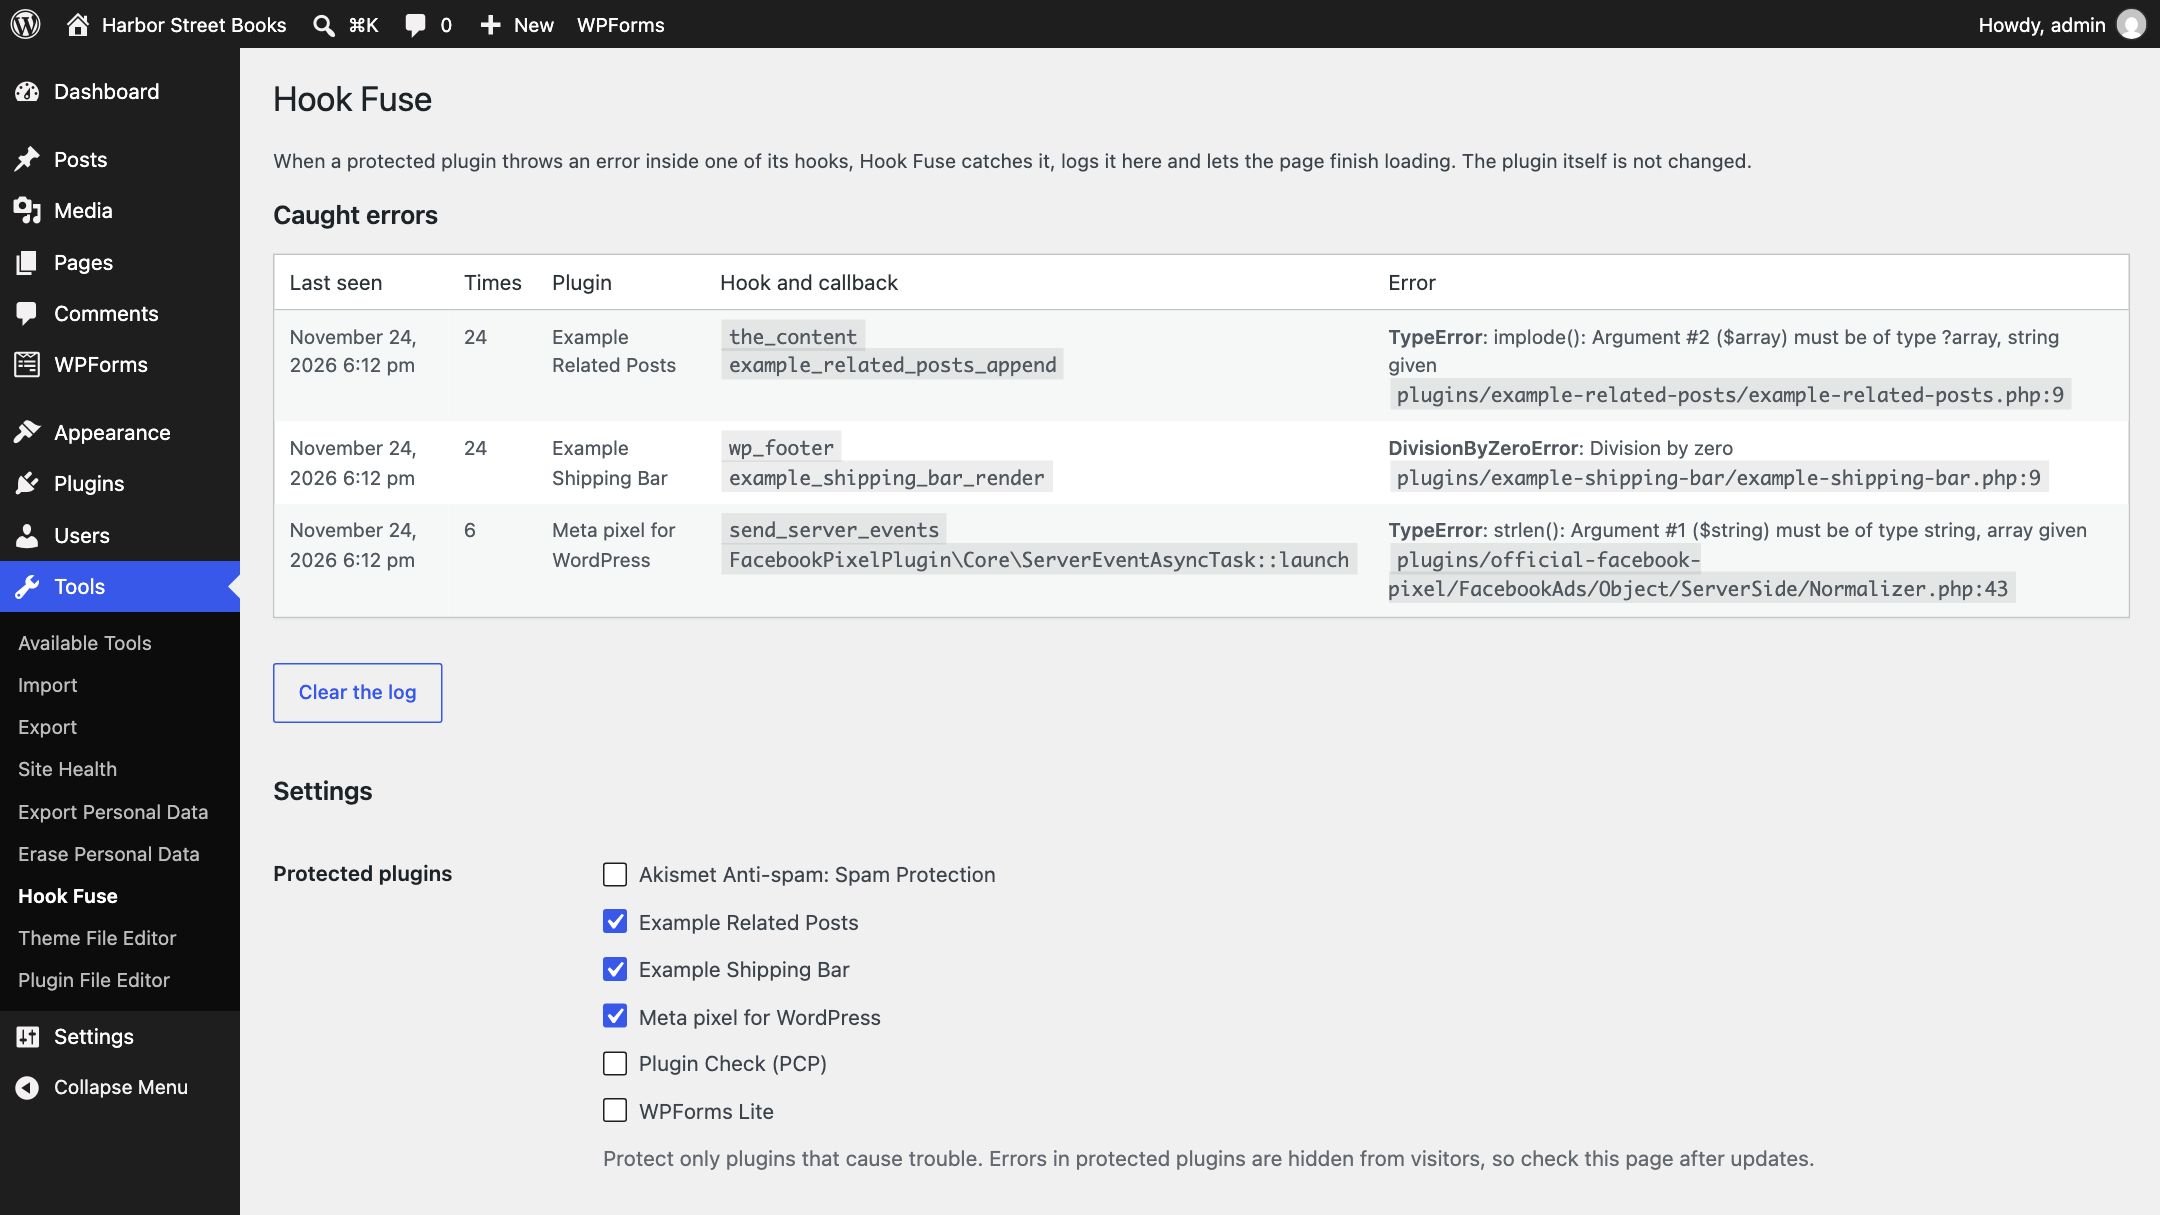
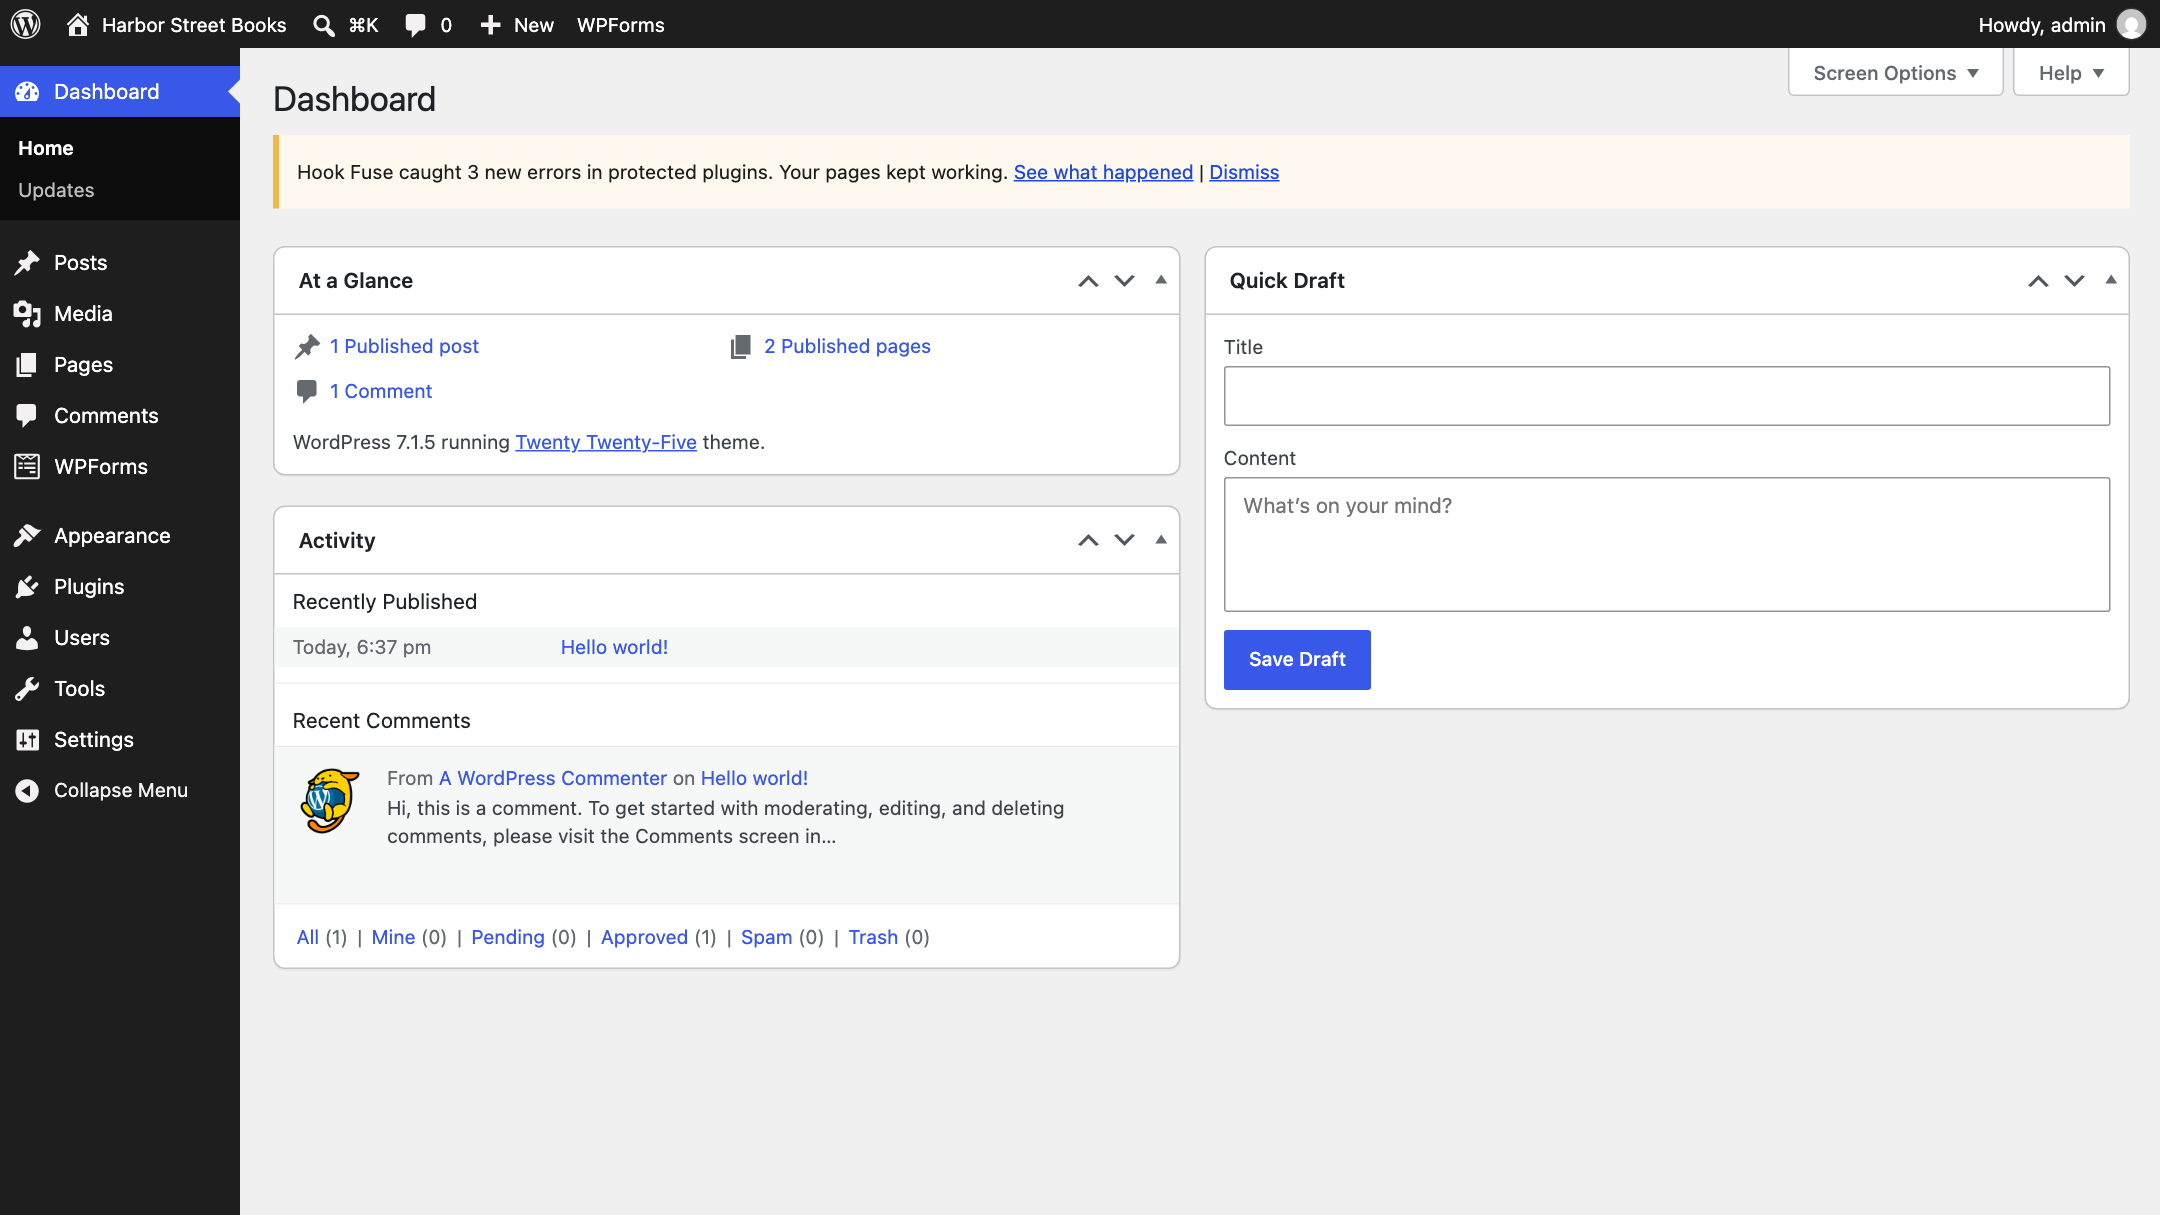
Hook Fuse 0.1.1: log table fits narrow screens

diff --git a/includes/class-hook-fuse-admin.php b/includes/class-hook-fuse-admin.php
@@ -43,6 +43,7 @@ final class Hook_Fuse_Admin {
 		add_action( 'admin_post_hook_fuse_clear', array( $this, 'handle_clear' ) );
 		add_action( 'admin_post_hook_fuse_dismiss', array( $this, 'handle_dismiss' ) );
 		add_action( 'admin_notices', array( $this, 'notice' ) );
+		add_action( 'admin_enqueue_scripts', array( $this, 'styles' ) );
 		add_filter( 'plugin_action_links_' . plugin_basename( HOOK_FUSE_FILE ), array( $this, 'action_links' ) );
 	}
 
@@ -56,6 +57,27 @@ final class Hook_Fuse_Admin {
 			'manage_options',
 			self::PAGE,
 			array( $this, 'render' )
+		);
+	}
+
+	/**
+	 * Make the log fit narrow screens: long hook, callback and file names break, and on phones each cell
+	 * gets its own line with the column name. Printed on the Hook Fuse page only.
+	 *
+	 * @param string $hook_suffix Current admin page.
+	 */
+	public function styles( $hook_suffix ) {
+		if ( 'tools_page_' . self::PAGE !== $hook_suffix ) {
+			return;
+		}
+		wp_add_inline_style(
+			'common',
+			'.hook-fuse-log code { overflow-wrap: anywhere; }
+			@media (max-width: 600px) {
+				.hook-fuse-log thead { display: none; }
+				.hook-fuse-log td { display: block; overflow-wrap: anywhere; }
+				.hook-fuse-log td::before { content: attr(data-colname); display: block; font-weight: 600; }
+			}'
 		);
 	}
 
@@ -134,7 +156,7 @@ final class Hook_Fuse_Admin {
 			<?php if ( empty( $entries ) ) : ?>
 				<p><?php esc_html_e( 'Nothing caught yet.', 'hook-fuse' ); ?></p>
 			<?php else : ?>
-				<table class="widefat striped">
+				<table class="widefat striped hook-fuse-log">
 					<thead>
 						<tr>
 							<th><?php esc_html_e( 'Last seen', 'hook-fuse' ); ?></th>
@@ -147,11 +169,11 @@ final class Hook_Fuse_Admin {
 					<tbody>
 						<?php foreach ( $entries as $entry ) : ?>
 							<tr>
-								<td><?php echo esc_html( wp_date( get_option( 'date_format' ) . ' ' . get_option( 'time_format' ), (int) $entry['last'] ) ); ?></td>
-								<td><?php echo esc_html( number_format_i18n( (int) $entry['count'] ) ); ?></td>
-								<td><?php echo esc_html( $this->plugin_name( $entry['plugin'] ) ); ?></td>
-								<td><code><?php echo esc_html( $entry['hook'] ); ?></code><br><code><?php echo esc_html( $entry['callback'] ); ?></code></td>
-								<td><strong><?php echo esc_html( $entry['type'] ); ?></strong>: <?php echo esc_html( $entry['message'] ); ?><br><code><?php echo esc_html( $entry['where'] ); ?></code></td>
+								<td data-colname="<?php esc_attr_e( 'Last seen', 'hook-fuse' ); ?>"><?php echo esc_html( wp_date( get_option( 'date_format' ) . ' ' . get_option( 'time_format' ), (int) $entry['last'] ) ); ?></td>
+								<td data-colname="<?php esc_attr_e( 'Times', 'hook-fuse' ); ?>"><?php echo esc_html( number_format_i18n( (int) $entry['count'] ) ); ?></td>
+								<td data-colname="<?php esc_attr_e( 'Plugin', 'hook-fuse' ); ?>"><?php echo esc_html( $this->plugin_name( $entry['plugin'] ) ); ?></td>
+								<td data-colname="<?php esc_attr_e( 'Hook and callback', 'hook-fuse' ); ?>"><code><?php echo esc_html( $entry['hook'] ); ?></code><br><code><?php echo esc_html( $entry['callback'] ); ?></code></td>
+								<td data-colname="<?php esc_attr_e( 'Error', 'hook-fuse' ); ?>"><strong><?php echo esc_html( $entry['type'] ); ?></strong>: <?php echo esc_html( $entry['message'] ); ?><br><code><?php echo esc_html( $entry['where'] ); ?></code></td>
 							</tr>
 						<?php endforeach; ?>
 					</tbody>
@@ -159,7 +181,7 @@ final class Hook_Fuse_Admin {
 				<form method="post" action="<?php echo esc_url( admin_url( 'admin-post.php' ) ); ?>">
 					<input type="hidden" name="action" value="hook_fuse_clear">
 					<?php wp_nonce_field( 'hook_fuse_clear' ); ?>
-					<?php submit_button( __( 'Clear the log', 'hook-fuse' ), 'secondary' ); ?>
+					<?php submit_button( __( 'Clear the log', 'hook-fuse' ), 'secondary', 'hook-fuse-clear' ); ?>
 				</form>
 			<?php endif; ?>
 

diff --git a/hook-fuse.php b/hook-fuse.php
@@ -3,7 +3,7 @@
  * Plugin Name:       Hook Fuse
  * Plugin URI:        https://github.com/orcnd/hook-fuse
  * Description:       Stops a crash inside another plugin's hook from taking the whole page down. The error is caught, logged and reported once a week instead.
- * Version:           0.1.0
+ * Version:           0.1.1
  * Requires at least: 6.0
  * Requires PHP:      7.4
  * Author:            orcnd
@@ -18,7 +18,7 @@ if ( ! defined( 'ABSPATH' ) ) {
 	exit;
 }
 
-define( 'HOOK_FUSE_VERSION', '0.1.0' );
+define( 'HOOK_FUSE_VERSION', '0.1.1' );
 define( 'HOOK_FUSE_FILE', __FILE__ );
 define( 'HOOK_FUSE_DIR', plugin_dir_path( __FILE__ ) );
 
